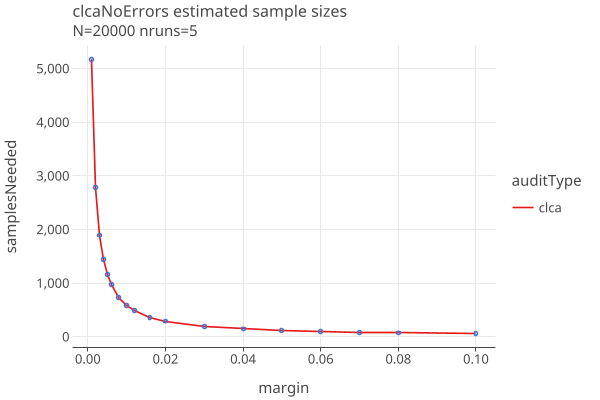
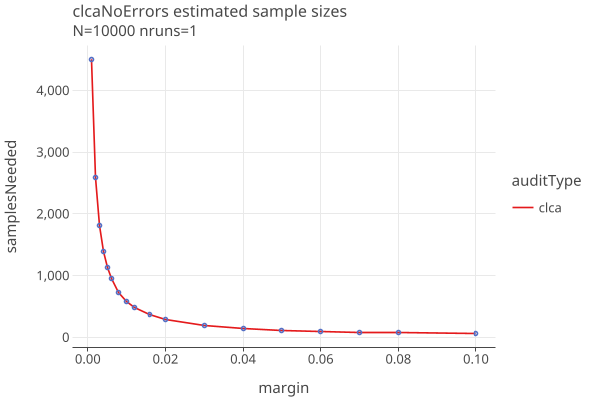
Add measured samples section to readme.

diff --git a/docs/plots/workflows/AuditsNoErrors/AuditsNoErrorsLog.html b/docs/plots/workflows/AuditsNoErrors/AuditsNoErrorsLog.html
@@ -5,12 +5,12 @@
        &lt;script type=&quot;text/javascript&quot; data-lets-plot-script=&quot;library&quot; src=&quot;https://cdn.jsdelivr.net/gh/JetBrains/lets-plot@v4.3.3/js-package/distr/lets-plot.min.js&quot;>&lt;/script>
    &lt;/head>
    &lt;body>
-          &lt;div id=&quot;2LenBm&quot;>&lt;/div>
+          &lt;div id=&quot;xl9jBT&quot;>&lt;/div>
    &lt;script type=&quot;text/javascript&quot; data-lets-plot-script=&quot;plot&quot;>
        var plotSpec={
 &quot;ggtitle&quot;:{
 &quot;text&quot;:&quot;AuditsNoErrors estimated sample sizes&quot;,
-&quot;subtitle&quot;:&quot;N=50000 nruns=100&quot;
+&quot;subtitle&quot;:&quot;N=10000 nruns=100&quot;
 },
 &quot;mapping&quot;:{
 },
@@ -42,10 +42,10 @@
 },
 &quot;stat&quot;:&quot;identity&quot;,
 &quot;data&quot;:{
-&quot;&amp;merged_groups&quot;:[&quot;clca&quot;,&quot;clca&quot;,&quot;clca&quot;,&quot;clca&quot;,&quot;clca&quot;,&quot;clca&quot;,&quot;clca&quot;,&quot;clca&quot;,&quot;clca&quot;,&quot;oneaudit 0.000&quot;,&quot;oneaudit 0.000&quot;,&quot;oneaudit 0.000&quot;,&quot;oneaudit 0.000&quot;,&quot;oneaudit 0.000&quot;,&quot;oneaudit 0.000&quot;,&quot;oneaudit 0.000&quot;,&quot;oneaudit 0.000&quot;,&quot;oneaudit 0.000&quot;,&quot;oneaudit 0.500&quot;,&quot;oneaudit 0.500&quot;,&quot;oneaudit 0.500&quot;,&quot;oneaudit 0.500&quot;,&quot;oneaudit 0.500&quot;,&quot;oneaudit 0.500&quot;,&quot;oneaudit 0.500&quot;,&quot;oneaudit 0.500&quot;,&quot;oneaudit 0.500&quot;,&quot;oneaudit 1.000&quot;,&quot;oneaudit 1.000&quot;,&quot;oneaudit 1.000&quot;,&quot;oneaudit 1.000&quot;,&quot;oneaudit 1.000&quot;,&quot;oneaudit 1.000&quot;,&quot;oneaudit 1.000&quot;,&quot;oneaudit 1.000&quot;,&quot;oneaudit 1.000&quot;,&quot;polling&quot;,&quot;polling&quot;,&quot;polling&quot;,&quot;polling&quot;,&quot;polling&quot;,&quot;polling&quot;,&quot;polling&quot;,&quot;polling&quot;,&quot;polling&quot;],
-&quot;margin&quot;:[0.02,0.03,0.04,0.05,0.06,0.07004,0.08,0.09,0.1,0.02,0.03,0.04,0.05,0.06,0.07,0.08,0.09,0.1,0.02,0.03,0.04,0.05,0.06,0.07,0.08,0.09,0.1,0.02,0.03,0.04,0.05,0.06,0.07,0.08,0.09,0.1,0.02,0.03,0.04,0.05002,0.06002,0.07004,0.08,0.09002,0.10002],
-&quot;log10(samplesNeeded)&quot;:[2.4725077920788094,2.294466226161593,2.1697038169945717,2.0718820073061255,1.9912260756924949,1.919078092376074,1.863322860120456,1.8129133566428555,1.7634279935629373,4.3153261890072825,4.097434671138254,3.882366273385968,3.737002497823517,3.6131237444851507,3.5012688238125733,3.384914068076313,3.2680605350907097,3.1593897097810526,4.306509519097144,4.05863894358761,3.879162424150548,3.67021986886627,3.530472487806604,3.413073335354132,3.276774199988959,3.196507791939696,3.1324838250005618,4.272584149110043,4.0217266644137775,3.813714391881145,3.6406801532776654,3.4940153747571436,3.367355921026019,3.255995726722402,3.156851901070011,3.0674428427763805,4.114867749137179,3.8258692744477507,3.6031237945886385,3.4514993686980673,3.28542902692649,3.17508542729306,3.0620853638402528,2.9733495643925187,2.83146663358453],
-&quot;auditType&quot;:[&quot;clca&quot;,&quot;clca&quot;,&quot;clca&quot;,&quot;clca&quot;,&quot;clca&quot;,&quot;clca&quot;,&quot;clca&quot;,&quot;clca&quot;,&quot;clca&quot;,&quot;oneaudit 0.000&quot;,&quot;oneaudit 0.000&quot;,&quot;oneaudit 0.000&quot;,&quot;oneaudit 0.000&quot;,&quot;oneaudit 0.000&quot;,&quot;oneaudit 0.000&quot;,&quot;oneaudit 0.000&quot;,&quot;oneaudit 0.000&quot;,&quot;oneaudit 0.000&quot;,&quot;oneaudit 0.500&quot;,&quot;oneaudit 0.500&quot;,&quot;oneaudit 0.500&quot;,&quot;oneaudit 0.500&quot;,&quot;oneaudit 0.500&quot;,&quot;oneaudit 0.500&quot;,&quot;oneaudit 0.500&quot;,&quot;oneaudit 0.500&quot;,&quot;oneaudit 0.500&quot;,&quot;oneaudit 1.000&quot;,&quot;oneaudit 1.000&quot;,&quot;oneaudit 1.000&quot;,&quot;oneaudit 1.000&quot;,&quot;oneaudit 1.000&quot;,&quot;oneaudit 1.000&quot;,&quot;oneaudit 1.000&quot;,&quot;oneaudit 1.000&quot;,&quot;oneaudit 1.000&quot;,&quot;polling&quot;,&quot;polling&quot;,&quot;polling&quot;,&quot;polling&quot;,&quot;polling&quot;,&quot;polling&quot;,&quot;polling&quot;,&quot;polling&quot;,&quot;polling&quot;]
+&quot;margin&quot;:[0.01,0.015,0.02,0.03,0.04,0.05,0.06,0.07,0.08,0.1,0.01,0.015,0.02,0.03,0.04,0.05,0.06,0.07,0.08,0.1,0.01,0.0152,0.02,0.03,0.04,0.05,0.06,0.07,0.08,0.1,0.01,0.015,0.02,0.03,0.04,0.05,0.06,0.07,0.08,0.1,0.01,0.015,0.02,0.03,0.04,0.05,0.06,0.07,0.08,0.1],
+&quot;&amp;merged_groups&quot;:[&quot;clca&quot;,&quot;clca&quot;,&quot;clca&quot;,&quot;clca&quot;,&quot;clca&quot;,&quot;clca&quot;,&quot;clca&quot;,&quot;clca&quot;,&quot;clca&quot;,&quot;clca&quot;,&quot;oneaudit 0.000&quot;,&quot;oneaudit 0.000&quot;,&quot;oneaudit 0.000&quot;,&quot;oneaudit 0.000&quot;,&quot;oneaudit 0.000&quot;,&quot;oneaudit 0.000&quot;,&quot;oneaudit 0.000&quot;,&quot;oneaudit 0.000&quot;,&quot;oneaudit 0.000&quot;,&quot;oneaudit 0.000&quot;,&quot;oneaudit 0.500&quot;,&quot;oneaudit 0.500&quot;,&quot;oneaudit 0.500&quot;,&quot;oneaudit 0.500&quot;,&quot;oneaudit 0.500&quot;,&quot;oneaudit 0.500&quot;,&quot;oneaudit 0.500&quot;,&quot;oneaudit 0.500&quot;,&quot;oneaudit 0.500&quot;,&quot;oneaudit 0.500&quot;,&quot;oneaudit 1.000&quot;,&quot;oneaudit 1.000&quot;,&quot;oneaudit 1.000&quot;,&quot;oneaudit 1.000&quot;,&quot;oneaudit 1.000&quot;,&quot;oneaudit 1.000&quot;,&quot;oneaudit 1.000&quot;,&quot;oneaudit 1.000&quot;,&quot;oneaudit 1.000&quot;,&quot;oneaudit 1.000&quot;,&quot;polling&quot;,&quot;polling&quot;,&quot;polling&quot;,&quot;polling&quot;,&quot;polling&quot;,&quot;polling&quot;,&quot;polling&quot;,&quot;polling&quot;,&quot;polling&quot;,&quot;polling&quot;],
+&quot;log10(samplesNeeded)&quot;:[2.7634279935629373,2.591064607026499,2.4668676203541096,2.292256071356476,2.167317334748176,2.0681858617461617,1.9867717342662448,1.919078092376074,1.863322860120456,1.7634279935629373,3.9660196436172765,3.928659524154752,3.877035415340168,3.7724588692973966,3.659421754313001,3.5525915691463377,3.4566650770468383,3.3514619569399438,3.286568734057264,3.1204785075416908,3.9624308997715207,3.915833385521619,3.8739114680814346,3.7476005567733175,3.6496122900968486,3.538838803753751,3.435678767605479,3.31414541703222,3.24166101564229,3.063085548974977,3.9651546459869254,3.9252605095194353,3.8748875108461123,3.756636108245848,3.631545227834309,3.510410948010177,3.397244581010386,3.292920299600006,3.197280558125619,3.0285712526925375,3.9051118001353617,3.8230253567344654,3.757121850816977,3.6401742414047047,3.510940252745901,3.326182191829347,3.2469464314097745,3.1036224421231684,2.9744287866201167,2.8104811913048864],
+&quot;auditType&quot;:[&quot;clca&quot;,&quot;clca&quot;,&quot;clca&quot;,&quot;clca&quot;,&quot;clca&quot;,&quot;clca&quot;,&quot;clca&quot;,&quot;clca&quot;,&quot;clca&quot;,&quot;clca&quot;,&quot;oneaudit 0.000&quot;,&quot;oneaudit 0.000&quot;,&quot;oneaudit 0.000&quot;,&quot;oneaudit 0.000&quot;,&quot;oneaudit 0.000&quot;,&quot;oneaudit 0.000&quot;,&quot;oneaudit 0.000&quot;,&quot;oneaudit 0.000&quot;,&quot;oneaudit 0.000&quot;,&quot;oneaudit 0.000&quot;,&quot;oneaudit 0.500&quot;,&quot;oneaudit 0.500&quot;,&quot;oneaudit 0.500&quot;,&quot;oneaudit 0.500&quot;,&quot;oneaudit 0.500&quot;,&quot;oneaudit 0.500&quot;,&quot;oneaudit 0.500&quot;,&quot;oneaudit 0.500&quot;,&quot;oneaudit 0.500&quot;,&quot;oneaudit 0.500&quot;,&quot;oneaudit 1.000&quot;,&quot;oneaudit 1.000&quot;,&quot;oneaudit 1.000&quot;,&quot;oneaudit 1.000&quot;,&quot;oneaudit 1.000&quot;,&quot;oneaudit 1.000&quot;,&quot;oneaudit 1.000&quot;,&quot;oneaudit 1.000&quot;,&quot;oneaudit 1.000&quot;,&quot;oneaudit 1.000&quot;,&quot;polling&quot;,&quot;polling&quot;,&quot;polling&quot;,&quot;polling&quot;,&quot;polling&quot;,&quot;polling&quot;,&quot;polling&quot;,&quot;polling&quot;,&quot;polling&quot;,&quot;polling&quot;]
 },
 &quot;sampling&quot;:&quot;none&quot;,
 &quot;position&quot;:&quot;identity&quot;,
@@ -58,10 +58,10 @@
 },
 &quot;stat&quot;:&quot;identity&quot;,
 &quot;data&quot;:{
-&quot;&amp;merged_groups&quot;:[&quot;clca&quot;,&quot;clca&quot;,&quot;clca&quot;,&quot;clca&quot;,&quot;clca&quot;,&quot;clca&quot;,&quot;clca&quot;,&quot;clca&quot;,&quot;clca&quot;,&quot;oneaudit 0.000&quot;,&quot;oneaudit 0.000&quot;,&quot;oneaudit 0.000&quot;,&quot;oneaudit 0.000&quot;,&quot;oneaudit 0.000&quot;,&quot;oneaudit 0.000&quot;,&quot;oneaudit 0.000&quot;,&quot;oneaudit 0.000&quot;,&quot;oneaudit 0.000&quot;,&quot;oneaudit 0.500&quot;,&quot;oneaudit 0.500&quot;,&quot;oneaudit 0.500&quot;,&quot;oneaudit 0.500&quot;,&quot;oneaudit 0.500&quot;,&quot;oneaudit 0.500&quot;,&quot;oneaudit 0.500&quot;,&quot;oneaudit 0.500&quot;,&quot;oneaudit 0.500&quot;,&quot;oneaudit 1.000&quot;,&quot;oneaudit 1.000&quot;,&quot;oneaudit 1.000&quot;,&quot;oneaudit 1.000&quot;,&quot;oneaudit 1.000&quot;,&quot;oneaudit 1.000&quot;,&quot;oneaudit 1.000&quot;,&quot;oneaudit 1.000&quot;,&quot;oneaudit 1.000&quot;,&quot;polling&quot;,&quot;polling&quot;,&quot;polling&quot;,&quot;polling&quot;,&quot;polling&quot;,&quot;polling&quot;,&quot;polling&quot;,&quot;polling&quot;,&quot;polling&quot;],
-&quot;margin&quot;:[0.02,0.03,0.04,0.05,0.06,0.07004,0.08,0.09,0.1,0.02,0.03,0.04,0.05,0.06,0.07,0.08,0.09,0.1,0.02,0.03,0.04,0.05,0.06,0.07,0.08,0.09,0.1,0.02,0.03,0.04,0.05,0.06,0.07,0.08,0.09,0.1,0.02,0.03,0.04,0.05002,0.06002,0.07004,0.08,0.09002,0.10002],
-&quot;log10(samplesNeeded)&quot;:[2.4725077920788094,2.294466226161593,2.1697038169945717,2.0718820073061255,1.9912260756924949,1.919078092376074,1.863322860120456,1.8129133566428555,1.7634279935629373,4.3153261890072825,4.097434671138254,3.882366273385968,3.737002497823517,3.6131237444851507,3.5012688238125733,3.384914068076313,3.2680605350907097,3.1593897097810526,4.306509519097144,4.05863894358761,3.879162424150548,3.67021986886627,3.530472487806604,3.413073335354132,3.276774199988959,3.196507791939696,3.1324838250005618,4.272584149110043,4.0217266644137775,3.813714391881145,3.6406801532776654,3.4940153747571436,3.367355921026019,3.255995726722402,3.156851901070011,3.0674428427763805,4.114867749137179,3.8258692744477507,3.6031237945886385,3.4514993686980673,3.28542902692649,3.17508542729306,3.0620853638402528,2.9733495643925187,2.83146663358453],
-&quot;auditType&quot;:[&quot;clca&quot;,&quot;clca&quot;,&quot;clca&quot;,&quot;clca&quot;,&quot;clca&quot;,&quot;clca&quot;,&quot;clca&quot;,&quot;clca&quot;,&quot;clca&quot;,&quot;oneaudit 0.000&quot;,&quot;oneaudit 0.000&quot;,&quot;oneaudit 0.000&quot;,&quot;oneaudit 0.000&quot;,&quot;oneaudit 0.000&quot;,&quot;oneaudit 0.000&quot;,&quot;oneaudit 0.000&quot;,&quot;oneaudit 0.000&quot;,&quot;oneaudit 0.000&quot;,&quot;oneaudit 0.500&quot;,&quot;oneaudit 0.500&quot;,&quot;oneaudit 0.500&quot;,&quot;oneaudit 0.500&quot;,&quot;oneaudit 0.500&quot;,&quot;oneaudit 0.500&quot;,&quot;oneaudit 0.500&quot;,&quot;oneaudit 0.500&quot;,&quot;oneaudit 0.500&quot;,&quot;oneaudit 1.000&quot;,&quot;oneaudit 1.000&quot;,&quot;oneaudit 1.000&quot;,&quot;oneaudit 1.000&quot;,&quot;oneaudit 1.000&quot;,&quot;oneaudit 1.000&quot;,&quot;oneaudit 1.000&quot;,&quot;oneaudit 1.000&quot;,&quot;oneaudit 1.000&quot;,&quot;polling&quot;,&quot;polling&quot;,&quot;polling&quot;,&quot;polling&quot;,&quot;polling&quot;,&quot;polling&quot;,&quot;polling&quot;,&quot;polling&quot;,&quot;polling&quot;]
+&quot;margin&quot;:[0.01,0.015,0.02,0.03,0.04,0.05,0.06,0.07,0.08,0.1,0.01,0.015,0.02,0.03,0.04,0.05,0.06,0.07,0.08,0.1,0.01,0.0152,0.02,0.03,0.04,0.05,0.06,0.07,0.08,0.1,0.01,0.015,0.02,0.03,0.04,0.05,0.06,0.07,0.08,0.1,0.01,0.015,0.02,0.03,0.04,0.05,0.06,0.07,0.08,0.1],
+&quot;&amp;merged_groups&quot;:[&quot;clca&quot;,&quot;clca&quot;,&quot;clca&quot;,&quot;clca&quot;,&quot;clca&quot;,&quot;clca&quot;,&quot;clca&quot;,&quot;clca&quot;,&quot;clca&quot;,&quot;clca&quot;,&quot;oneaudit 0.000&quot;,&quot;oneaudit 0.000&quot;,&quot;oneaudit 0.000&quot;,&quot;oneaudit 0.000&quot;,&quot;oneaudit 0.000&quot;,&quot;oneaudit 0.000&quot;,&quot;oneaudit 0.000&quot;,&quot;oneaudit 0.000&quot;,&quot;oneaudit 0.000&quot;,&quot;oneaudit 0.000&quot;,&quot;oneaudit 0.500&quot;,&quot;oneaudit 0.500&quot;,&quot;oneaudit 0.500&quot;,&quot;oneaudit 0.500&quot;,&quot;oneaudit 0.500&quot;,&quot;oneaudit 0.500&quot;,&quot;oneaudit 0.500&quot;,&quot;oneaudit 0.500&quot;,&quot;oneaudit 0.500&quot;,&quot;oneaudit 0.500&quot;,&quot;oneaudit 1.000&quot;,&quot;oneaudit 1.000&quot;,&quot;oneaudit 1.000&quot;,&quot;oneaudit 1.000&quot;,&quot;oneaudit 1.000&quot;,&quot;oneaudit 1.000&quot;,&quot;oneaudit 1.000&quot;,&quot;oneaudit 1.000&quot;,&quot;oneaudit 1.000&quot;,&quot;oneaudit 1.000&quot;,&quot;polling&quot;,&quot;polling&quot;,&quot;polling&quot;,&quot;polling&quot;,&quot;polling&quot;,&quot;polling&quot;,&quot;polling&quot;,&quot;polling&quot;,&quot;polling&quot;,&quot;polling&quot;],
+&quot;log10(samplesNeeded)&quot;:[2.7634279935629373,2.591064607026499,2.4668676203541096,2.292256071356476,2.167317334748176,2.0681858617461617,1.9867717342662448,1.919078092376074,1.863322860120456,1.7634279935629373,3.9660196436172765,3.928659524154752,3.877035415340168,3.7724588692973966,3.659421754313001,3.5525915691463377,3.4566650770468383,3.3514619569399438,3.286568734057264,3.1204785075416908,3.9624308997715207,3.915833385521619,3.8739114680814346,3.7476005567733175,3.6496122900968486,3.538838803753751,3.435678767605479,3.31414541703222,3.24166101564229,3.063085548974977,3.9651546459869254,3.9252605095194353,3.8748875108461123,3.756636108245848,3.631545227834309,3.510410948010177,3.397244581010386,3.292920299600006,3.197280558125619,3.0285712526925375,3.9051118001353617,3.8230253567344654,3.757121850816977,3.6401742414047047,3.510940252745901,3.326182191829347,3.2469464314097745,3.1036224421231684,2.9744287866201167,2.8104811913048864],
+&quot;auditType&quot;:[&quot;clca&quot;,&quot;clca&quot;,&quot;clca&quot;,&quot;clca&quot;,&quot;clca&quot;,&quot;clca&quot;,&quot;clca&quot;,&quot;clca&quot;,&quot;clca&quot;,&quot;clca&quot;,&quot;oneaudit 0.000&quot;,&quot;oneaudit 0.000&quot;,&quot;oneaudit 0.000&quot;,&quot;oneaudit 0.000&quot;,&quot;oneaudit 0.000&quot;,&quot;oneaudit 0.000&quot;,&quot;oneaudit 0.000&quot;,&quot;oneaudit 0.000&quot;,&quot;oneaudit 0.000&quot;,&quot;oneaudit 0.000&quot;,&quot;oneaudit 0.500&quot;,&quot;oneaudit 0.500&quot;,&quot;oneaudit 0.500&quot;,&quot;oneaudit 0.500&quot;,&quot;oneaudit 0.500&quot;,&quot;oneaudit 0.500&quot;,&quot;oneaudit 0.500&quot;,&quot;oneaudit 0.500&quot;,&quot;oneaudit 0.500&quot;,&quot;oneaudit 0.500&quot;,&quot;oneaudit 1.000&quot;,&quot;oneaudit 1.000&quot;,&quot;oneaudit 1.000&quot;,&quot;oneaudit 1.000&quot;,&quot;oneaudit 1.000&quot;,&quot;oneaudit 1.000&quot;,&quot;oneaudit 1.000&quot;,&quot;oneaudit 1.000&quot;,&quot;oneaudit 1.000&quot;,&quot;oneaudit 1.000&quot;,&quot;polling&quot;,&quot;polling&quot;,&quot;polling&quot;,&quot;polling&quot;,&quot;polling&quot;,&quot;polling&quot;,&quot;polling&quot;,&quot;polling&quot;,&quot;polling&quot;,&quot;polling&quot;]
 },
 &quot;size&quot;:1.0,
 &quot;shape&quot;:1.0,
@@ -75,7 +75,7 @@
 }
 }]
 };
-       var plotContainer = document.getElementById(&quot;2LenBm&quot;);
+       var plotContainer = document.getElementById(&quot;xl9jBT&quot;);
        LetsPlot.buildPlotFromProcessedSpecs(plotSpec, -1, -1, plotContainer);
    &lt;/script>
    &lt;/body>

diff --git a/docs/plots/workflows/AuditsNoErrors/AuditsNoErrorsLinear.html b/docs/plots/workflows/AuditsNoErrors/AuditsNoErrorsLinear.html
@@ -5,12 +5,12 @@
        &lt;script type=&quot;text/javascript&quot; data-lets-plot-script=&quot;library&quot; src=&quot;https://cdn.jsdelivr.net/gh/JetBrains/lets-plot@v4.3.3/js-package/distr/lets-plot.min.js&quot;>&lt;/script>
    &lt;/head>
    &lt;body>
-          &lt;div id=&quot;45DF2f&quot;>&lt;/div>
+          &lt;div id=&quot;Ww7ych&quot;>&lt;/div>
    &lt;script type=&quot;text/javascript&quot; data-lets-plot-script=&quot;plot&quot;>
        var plotSpec={
 &quot;ggtitle&quot;:{
 &quot;text&quot;:&quot;AuditsNoErrors estimated sample sizes&quot;,
-&quot;subtitle&quot;:&quot;N=50000 nruns=100&quot;
+&quot;subtitle&quot;:&quot;N=10000 nruns=100&quot;
 },
 &quot;mapping&quot;:{
 },
@@ -42,10 +42,10 @@
 },
 &quot;stat&quot;:&quot;identity&quot;,
 &quot;data&quot;:{
-&quot;&amp;merged_groups&quot;:[&quot;clca&quot;,&quot;clca&quot;,&quot;clca&quot;,&quot;clca&quot;,&quot;clca&quot;,&quot;clca&quot;,&quot;clca&quot;,&quot;clca&quot;,&quot;clca&quot;,&quot;oneaudit 0.000&quot;,&quot;oneaudit 0.000&quot;,&quot;oneaudit 0.000&quot;,&quot;oneaudit 0.000&quot;,&quot;oneaudit 0.000&quot;,&quot;oneaudit 0.000&quot;,&quot;oneaudit 0.000&quot;,&quot;oneaudit 0.000&quot;,&quot;oneaudit 0.000&quot;,&quot;oneaudit 0.500&quot;,&quot;oneaudit 0.500&quot;,&quot;oneaudit 0.500&quot;,&quot;oneaudit 0.500&quot;,&quot;oneaudit 0.500&quot;,&quot;oneaudit 0.500&quot;,&quot;oneaudit 0.500&quot;,&quot;oneaudit 0.500&quot;,&quot;oneaudit 0.500&quot;,&quot;oneaudit 1.000&quot;,&quot;oneaudit 1.000&quot;,&quot;oneaudit 1.000&quot;,&quot;oneaudit 1.000&quot;,&quot;oneaudit 1.000&quot;,&quot;oneaudit 1.000&quot;,&quot;oneaudit 1.000&quot;,&quot;oneaudit 1.000&quot;,&quot;oneaudit 1.000&quot;,&quot;polling&quot;,&quot;polling&quot;,&quot;polling&quot;,&quot;polling&quot;,&quot;polling&quot;,&quot;polling&quot;,&quot;polling&quot;,&quot;polling&quot;,&quot;polling&quot;],
-&quot;margin&quot;:[0.02,0.03,0.04,0.05,0.06,0.07004,0.08,0.09,0.1,0.02,0.03,0.04,0.05,0.06,0.07,0.08,0.09,0.1,0.02,0.03,0.04,0.05,0.06,0.07,0.08,0.09,0.1,0.02,0.03,0.04,0.05,0.06,0.07,0.08,0.09,0.1,0.02,0.03,0.04,0.05002,0.06002,0.07004,0.08,0.09002,0.10002],
-&quot;samplesNeeded&quot;:[296.83,197.0,147.81,118.0,98.0,83.0,73.0,65.0,58.0,20669.32,12515.11,7627.22,5457.61,4103.21,3171.53,2426.13,1853.79,1443.41,20253.94,11445.61,7571.16,4679.72,3392.13,2588.65,1891.36,1572.2,1356.7,18732.0,10513.0,6512.0,4372.0,3119.0,2330.0,1803.0,1435.0,1168.0,13027.7,6696.83,4009.81,2828.13,1929.43,1496.53,1153.68,940.48,678.37],
-&quot;auditType&quot;:[&quot;clca&quot;,&quot;clca&quot;,&quot;clca&quot;,&quot;clca&quot;,&quot;clca&quot;,&quot;clca&quot;,&quot;clca&quot;,&quot;clca&quot;,&quot;clca&quot;,&quot;oneaudit 0.000&quot;,&quot;oneaudit 0.000&quot;,&quot;oneaudit 0.000&quot;,&quot;oneaudit 0.000&quot;,&quot;oneaudit 0.000&quot;,&quot;oneaudit 0.000&quot;,&quot;oneaudit 0.000&quot;,&quot;oneaudit 0.000&quot;,&quot;oneaudit 0.000&quot;,&quot;oneaudit 0.500&quot;,&quot;oneaudit 0.500&quot;,&quot;oneaudit 0.500&quot;,&quot;oneaudit 0.500&quot;,&quot;oneaudit 0.500&quot;,&quot;oneaudit 0.500&quot;,&quot;oneaudit 0.500&quot;,&quot;oneaudit 0.500&quot;,&quot;oneaudit 0.500&quot;,&quot;oneaudit 1.000&quot;,&quot;oneaudit 1.000&quot;,&quot;oneaudit 1.000&quot;,&quot;oneaudit 1.000&quot;,&quot;oneaudit 1.000&quot;,&quot;oneaudit 1.000&quot;,&quot;oneaudit 1.000&quot;,&quot;oneaudit 1.000&quot;,&quot;oneaudit 1.000&quot;,&quot;polling&quot;,&quot;polling&quot;,&quot;polling&quot;,&quot;polling&quot;,&quot;polling&quot;,&quot;polling&quot;,&quot;polling&quot;,&quot;polling&quot;,&quot;polling&quot;]
+&quot;&amp;merged_groups&quot;:[&quot;clca&quot;,&quot;clca&quot;,&quot;clca&quot;,&quot;clca&quot;,&quot;clca&quot;,&quot;clca&quot;,&quot;clca&quot;,&quot;clca&quot;,&quot;clca&quot;,&quot;clca&quot;,&quot;oneaudit 0.000&quot;,&quot;oneaudit 0.000&quot;,&quot;oneaudit 0.000&quot;,&quot;oneaudit 0.000&quot;,&quot;oneaudit 0.000&quot;,&quot;oneaudit 0.000&quot;,&quot;oneaudit 0.000&quot;,&quot;oneaudit 0.000&quot;,&quot;oneaudit 0.000&quot;,&quot;oneaudit 0.000&quot;,&quot;oneaudit 0.500&quot;,&quot;oneaudit 0.500&quot;,&quot;oneaudit 0.500&quot;,&quot;oneaudit 0.500&quot;,&quot;oneaudit 0.500&quot;,&quot;oneaudit 0.500&quot;,&quot;oneaudit 0.500&quot;,&quot;oneaudit 0.500&quot;,&quot;oneaudit 0.500&quot;,&quot;oneaudit 0.500&quot;,&quot;oneaudit 1.000&quot;,&quot;oneaudit 1.000&quot;,&quot;oneaudit 1.000&quot;,&quot;oneaudit 1.000&quot;,&quot;oneaudit 1.000&quot;,&quot;oneaudit 1.000&quot;,&quot;oneaudit 1.000&quot;,&quot;oneaudit 1.000&quot;,&quot;oneaudit 1.000&quot;,&quot;oneaudit 1.000&quot;,&quot;polling&quot;,&quot;polling&quot;,&quot;polling&quot;,&quot;polling&quot;,&quot;polling&quot;,&quot;polling&quot;,&quot;polling&quot;,&quot;polling&quot;,&quot;polling&quot;,&quot;polling&quot;],
+&quot;margin&quot;:[0.01,0.015,0.02,0.03,0.04,0.05,0.06,0.07,0.08,0.1,0.01,0.015,0.02,0.03,0.04,0.05,0.06,0.07,0.08,0.1,0.01,0.0152,0.02,0.03,0.04,0.05,0.06,0.07,0.08,0.1,0.01,0.015,0.02,0.03,0.04,0.05,0.06,0.07,0.08,0.1,0.01,0.015,0.02,0.03,0.04,0.05,0.06,0.07,0.08,0.1],
+&quot;samplesNeeded&quot;:[580.0,390.0,293.0,196.0,147.0,117.0,97.0,83.0,73.0,58.0,9247.4,8485.15,7534.17,5921.87,4564.8,3569.37,2861.97,2246.27,1934.5,1319.71,9171.3,8238.22,7480.17,5592.43,4462.85,3458.11,2726.96,2061.32,1744.46,1156.34,9229.0,8419.0,7497.0,5710.0,4281.0,3239.0,2496.0,1963.0,1575.0,1068.0,8037.33,6653.12,5716.39,4366.91,3242.95,2119.25,1765.82,1269.47,942.82,646.37],
+&quot;auditType&quot;:[&quot;clca&quot;,&quot;clca&quot;,&quot;clca&quot;,&quot;clca&quot;,&quot;clca&quot;,&quot;clca&quot;,&quot;clca&quot;,&quot;clca&quot;,&quot;clca&quot;,&quot;clca&quot;,&quot;oneaudit 0.000&quot;,&quot;oneaudit 0.000&quot;,&quot;oneaudit 0.000&quot;,&quot;oneaudit 0.000&quot;,&quot;oneaudit 0.000&quot;,&quot;oneaudit 0.000&quot;,&quot;oneaudit 0.000&quot;,&quot;oneaudit 0.000&quot;,&quot;oneaudit 0.000&quot;,&quot;oneaudit 0.000&quot;,&quot;oneaudit 0.500&quot;,&quot;oneaudit 0.500&quot;,&quot;oneaudit 0.500&quot;,&quot;oneaudit 0.500&quot;,&quot;oneaudit 0.500&quot;,&quot;oneaudit 0.500&quot;,&quot;oneaudit 0.500&quot;,&quot;oneaudit 0.500&quot;,&quot;oneaudit 0.500&quot;,&quot;oneaudit 0.500&quot;,&quot;oneaudit 1.000&quot;,&quot;oneaudit 1.000&quot;,&quot;oneaudit 1.000&quot;,&quot;oneaudit 1.000&quot;,&quot;oneaudit 1.000&quot;,&quot;oneaudit 1.000&quot;,&quot;oneaudit 1.000&quot;,&quot;oneaudit 1.000&quot;,&quot;oneaudit 1.000&quot;,&quot;oneaudit 1.000&quot;,&quot;polling&quot;,&quot;polling&quot;,&quot;polling&quot;,&quot;polling&quot;,&quot;polling&quot;,&quot;polling&quot;,&quot;polling&quot;,&quot;polling&quot;,&quot;polling&quot;,&quot;polling&quot;]
 },
 &quot;sampling&quot;:&quot;none&quot;,
 &quot;position&quot;:&quot;identity&quot;,
@@ -58,10 +58,10 @@
 },
 &quot;stat&quot;:&quot;identity&quot;,
 &quot;data&quot;:{
-&quot;margin&quot;:[0.02,0.03,0.04,0.05,0.06,0.07004,0.08,0.09,0.1,0.02,0.03,0.04,0.05,0.06,0.07,0.08,0.09,0.1,0.02,0.03,0.04,0.05,0.06,0.07,0.08,0.09,0.1,0.02,0.03,0.04,0.05,0.06,0.07,0.08,0.09,0.1,0.02,0.03,0.04,0.05002,0.06002,0.07004,0.08,0.09002,0.10002],
-&quot;&amp;merged_groups&quot;:[&quot;clca&quot;,&quot;clca&quot;,&quot;clca&quot;,&quot;clca&quot;,&quot;clca&quot;,&quot;clca&quot;,&quot;clca&quot;,&quot;clca&quot;,&quot;clca&quot;,&quot;oneaudit 0.000&quot;,&quot;oneaudit 0.000&quot;,&quot;oneaudit 0.000&quot;,&quot;oneaudit 0.000&quot;,&quot;oneaudit 0.000&quot;,&quot;oneaudit 0.000&quot;,&quot;oneaudit 0.000&quot;,&quot;oneaudit 0.000&quot;,&quot;oneaudit 0.000&quot;,&quot;oneaudit 0.500&quot;,&quot;oneaudit 0.500&quot;,&quot;oneaudit 0.500&quot;,&quot;oneaudit 0.500&quot;,&quot;oneaudit 0.500&quot;,&quot;oneaudit 0.500&quot;,&quot;oneaudit 0.500&quot;,&quot;oneaudit 0.500&quot;,&quot;oneaudit 0.500&quot;,&quot;oneaudit 1.000&quot;,&quot;oneaudit 1.000&quot;,&quot;oneaudit 1.000&quot;,&quot;oneaudit 1.000&quot;,&quot;oneaudit 1.000&quot;,&quot;oneaudit 1.000&quot;,&quot;oneaudit 1.000&quot;,&quot;oneaudit 1.000&quot;,&quot;oneaudit 1.000&quot;,&quot;polling&quot;,&quot;polling&quot;,&quot;polling&quot;,&quot;polling&quot;,&quot;polling&quot;,&quot;polling&quot;,&quot;polling&quot;,&quot;polling&quot;,&quot;polling&quot;],
-&quot;samplesNeeded&quot;:[296.83,197.0,147.81,118.0,98.0,83.0,73.0,65.0,58.0,20669.32,12515.11,7627.22,5457.61,4103.21,3171.53,2426.13,1853.79,1443.41,20253.94,11445.61,7571.16,4679.72,3392.13,2588.65,1891.36,1572.2,1356.7,18732.0,10513.0,6512.0,4372.0,3119.0,2330.0,1803.0,1435.0,1168.0,13027.7,6696.83,4009.81,2828.13,1929.43,1496.53,1153.68,940.48,678.37],
-&quot;auditType&quot;:[&quot;clca&quot;,&quot;clca&quot;,&quot;clca&quot;,&quot;clca&quot;,&quot;clca&quot;,&quot;clca&quot;,&quot;clca&quot;,&quot;clca&quot;,&quot;clca&quot;,&quot;oneaudit 0.000&quot;,&quot;oneaudit 0.000&quot;,&quot;oneaudit 0.000&quot;,&quot;oneaudit 0.000&quot;,&quot;oneaudit 0.000&quot;,&quot;oneaudit 0.000&quot;,&quot;oneaudit 0.000&quot;,&quot;oneaudit 0.000&quot;,&quot;oneaudit 0.000&quot;,&quot;oneaudit 0.500&quot;,&quot;oneaudit 0.500&quot;,&quot;oneaudit 0.500&quot;,&quot;oneaudit 0.500&quot;,&quot;oneaudit 0.500&quot;,&quot;oneaudit 0.500&quot;,&quot;oneaudit 0.500&quot;,&quot;oneaudit 0.500&quot;,&quot;oneaudit 0.500&quot;,&quot;oneaudit 1.000&quot;,&quot;oneaudit 1.000&quot;,&quot;oneaudit 1.000&quot;,&quot;oneaudit 1.000&quot;,&quot;oneaudit 1.000&quot;,&quot;oneaudit 1.000&quot;,&quot;oneaudit 1.000&quot;,&quot;oneaudit 1.000&quot;,&quot;oneaudit 1.000&quot;,&quot;polling&quot;,&quot;polling&quot;,&quot;polling&quot;,&quot;polling&quot;,&quot;polling&quot;,&quot;polling&quot;,&quot;polling&quot;,&quot;polling&quot;,&quot;polling&quot;]
+&quot;&amp;merged_groups&quot;:[&quot;clca&quot;,&quot;clca&quot;,&quot;clca&quot;,&quot;clca&quot;,&quot;clca&quot;,&quot;clca&quot;,&quot;clca&quot;,&quot;clca&quot;,&quot;clca&quot;,&quot;clca&quot;,&quot;oneaudit 0.000&quot;,&quot;oneaudit 0.000&quot;,&quot;oneaudit 0.000&quot;,&quot;oneaudit 0.000&quot;,&quot;oneaudit 0.000&quot;,&quot;oneaudit 0.000&quot;,&quot;oneaudit 0.000&quot;,&quot;oneaudit 0.000&quot;,&quot;oneaudit 0.000&quot;,&quot;oneaudit 0.000&quot;,&quot;oneaudit 0.500&quot;,&quot;oneaudit 0.500&quot;,&quot;oneaudit 0.500&quot;,&quot;oneaudit 0.500&quot;,&quot;oneaudit 0.500&quot;,&quot;oneaudit 0.500&quot;,&quot;oneaudit 0.500&quot;,&quot;oneaudit 0.500&quot;,&quot;oneaudit 0.500&quot;,&quot;oneaudit 0.500&quot;,&quot;oneaudit 1.000&quot;,&quot;oneaudit 1.000&quot;,&quot;oneaudit 1.000&quot;,&quot;oneaudit 1.000&quot;,&quot;oneaudit 1.000&quot;,&quot;oneaudit 1.000&quot;,&quot;oneaudit 1.000&quot;,&quot;oneaudit 1.000&quot;,&quot;oneaudit 1.000&quot;,&quot;oneaudit 1.000&quot;,&quot;polling&quot;,&quot;polling&quot;,&quot;polling&quot;,&quot;polling&quot;,&quot;polling&quot;,&quot;polling&quot;,&quot;polling&quot;,&quot;polling&quot;,&quot;polling&quot;,&quot;polling&quot;],
+&quot;margin&quot;:[0.01,0.015,0.02,0.03,0.04,0.05,0.06,0.07,0.08,0.1,0.01,0.015,0.02,0.03,0.04,0.05,0.06,0.07,0.08,0.1,0.01,0.0152,0.02,0.03,0.04,0.05,0.06,0.07,0.08,0.1,0.01,0.015,0.02,0.03,0.04,0.05,0.06,0.07,0.08,0.1,0.01,0.015,0.02,0.03,0.04,0.05,0.06,0.07,0.08,0.1],
+&quot;samplesNeeded&quot;:[580.0,390.0,293.0,196.0,147.0,117.0,97.0,83.0,73.0,58.0,9247.4,8485.15,7534.17,5921.87,4564.8,3569.37,2861.97,2246.27,1934.5,1319.71,9171.3,8238.22,7480.17,5592.43,4462.85,3458.11,2726.96,2061.32,1744.46,1156.34,9229.0,8419.0,7497.0,5710.0,4281.0,3239.0,2496.0,1963.0,1575.0,1068.0,8037.33,6653.12,5716.39,4366.91,3242.95,2119.25,1765.82,1269.47,942.82,646.37],
+&quot;auditType&quot;:[&quot;clca&quot;,&quot;clca&quot;,&quot;clca&quot;,&quot;clca&quot;,&quot;clca&quot;,&quot;clca&quot;,&quot;clca&quot;,&quot;clca&quot;,&quot;clca&quot;,&quot;clca&quot;,&quot;oneaudit 0.000&quot;,&quot;oneaudit 0.000&quot;,&quot;oneaudit 0.000&quot;,&quot;oneaudit 0.000&quot;,&quot;oneaudit 0.000&quot;,&quot;oneaudit 0.000&quot;,&quot;oneaudit 0.000&quot;,&quot;oneaudit 0.000&quot;,&quot;oneaudit 0.000&quot;,&quot;oneaudit 0.000&quot;,&quot;oneaudit 0.500&quot;,&quot;oneaudit 0.500&quot;,&quot;oneaudit 0.500&quot;,&quot;oneaudit 0.500&quot;,&quot;oneaudit 0.500&quot;,&quot;oneaudit 0.500&quot;,&quot;oneaudit 0.500&quot;,&quot;oneaudit 0.500&quot;,&quot;oneaudit 0.500&quot;,&quot;oneaudit 0.500&quot;,&quot;oneaudit 1.000&quot;,&quot;oneaudit 1.000&quot;,&quot;oneaudit 1.000&quot;,&quot;oneaudit 1.000&quot;,&quot;oneaudit 1.000&quot;,&quot;oneaudit 1.000&quot;,&quot;oneaudit 1.000&quot;,&quot;oneaudit 1.000&quot;,&quot;oneaudit 1.000&quot;,&quot;oneaudit 1.000&quot;,&quot;polling&quot;,&quot;polling&quot;,&quot;polling&quot;,&quot;polling&quot;,&quot;polling&quot;,&quot;polling&quot;,&quot;polling&quot;,&quot;polling&quot;,&quot;polling&quot;,&quot;polling&quot;]
 },
 &quot;size&quot;:1.0,
 &quot;shape&quot;:1.0,
@@ -75,7 +75,7 @@
 }
 }]
 };
-       var plotContainer = document.getElementById(&quot;45DF2f&quot;);
+       var plotContainer = document.getElementById(&quot;Ww7ych&quot;);
        LetsPlot.buildPlotFromProcessedSpecs(plotSpec, -1, -1, plotContainer);
    &lt;/script>
    &lt;/body>

diff --git a/docs/plots/workflows/clcaNoErrors/clcaNoErrorsLinear.html b/docs/plots/workflows/clcaNoErrors/clcaNoErrorsLinear.html
@@ -5,12 +5,12 @@
        &lt;script type=&quot;text/javascript&quot; data-lets-plot-script=&quot;library&quot; src=&quot;https://cdn.jsdelivr.net/gh/JetBrains/lets-plot@v4.3.3/js-package/distr/lets-plot.min.js&quot;>&lt;/script>
    &lt;/head>
    &lt;body>
-          &lt;div id=&quot;ZQvTiS&quot;>&lt;/div>
+          &lt;div id=&quot;mKPtJM&quot;>&lt;/div>
    &lt;script type=&quot;text/javascript&quot; data-lets-plot-script=&quot;plot&quot;>
        var plotSpec={
 &quot;ggtitle&quot;:{
 &quot;text&quot;:&quot;clcaNoErrors estimated sample sizes&quot;,
-&quot;subtitle&quot;:&quot;N=20000 nruns=5&quot;
+&quot;subtitle&quot;:&quot;N=10000 nruns=1&quot;
 },
 &quot;mapping&quot;:{
 },
@@ -42,9 +42,9 @@
 },
 &quot;stat&quot;:&quot;identity&quot;,
 &quot;data&quot;:{
-&quot;margin&quot;:[0.001,0.002,0.003,0.004,0.005,0.006,0.008,0.01,0.012,0.016,0.02,0.03,0.04,0.05,0.06,0.07,0.08,0.1],
 &quot;&amp;merged_groups&quot;:[&quot;clca&quot;,&quot;clca&quot;,&quot;clca&quot;,&quot;clca&quot;,&quot;clca&quot;,&quot;clca&quot;,&quot;clca&quot;,&quot;clca&quot;,&quot;clca&quot;,&quot;clca&quot;,&quot;clca&quot;,&quot;clca&quot;,&quot;clca&quot;,&quot;clca&quot;,&quot;clca&quot;,&quot;clca&quot;,&quot;clca&quot;,&quot;clca&quot;],
-&quot;samplesNeeded&quot;:[5176.0,2781.0,1899.0,1441.0,1161.0,972.0,733.0,588.0,491.0,369.0,295.0,197.0,147.0,117.0,98.0,83.0,73.0,58.0],
+&quot;margin&quot;:[0.001,0.002,0.003,0.004,0.005,0.006,0.008,0.01,0.012,0.016,0.02,0.03,0.04,0.05,0.06,0.07,0.08,0.1],
+&quot;samplesNeeded&quot;:[4506.0,2587.0,1809.0,1389.0,1128.0,949.0,720.0,580.0,485.0,366.0,293.0,196.0,147.0,117.0,97.0,83.0,73.0,58.0],
 &quot;auditType&quot;:[&quot;clca&quot;,&quot;clca&quot;,&quot;clca&quot;,&quot;clca&quot;,&quot;clca&quot;,&quot;clca&quot;,&quot;clca&quot;,&quot;clca&quot;,&quot;clca&quot;,&quot;clca&quot;,&quot;clca&quot;,&quot;clca&quot;,&quot;clca&quot;,&quot;clca&quot;,&quot;clca&quot;,&quot;clca&quot;,&quot;clca&quot;,&quot;clca&quot;]
 },
 &quot;sampling&quot;:&quot;none&quot;,
@@ -58,9 +58,9 @@
 },
 &quot;stat&quot;:&quot;identity&quot;,
 &quot;data&quot;:{
-&quot;margin&quot;:[0.001,0.002,0.003,0.004,0.005,0.006,0.008,0.01,0.012,0.016,0.02,0.03,0.04,0.05,0.06,0.07,0.08,0.1],
 &quot;&amp;merged_groups&quot;:[&quot;clca&quot;,&quot;clca&quot;,&quot;clca&quot;,&quot;clca&quot;,&quot;clca&quot;,&quot;clca&quot;,&quot;clca&quot;,&quot;clca&quot;,&quot;clca&quot;,&quot;clca&quot;,&quot;clca&quot;,&quot;clca&quot;,&quot;clca&quot;,&quot;clca&quot;,&quot;clca&quot;,&quot;clca&quot;,&quot;clca&quot;,&quot;clca&quot;],
-&quot;samplesNeeded&quot;:[5176.0,2781.0,1899.0,1441.0,1161.0,972.0,733.0,588.0,491.0,369.0,295.0,197.0,147.0,117.0,98.0,83.0,73.0,58.0],
+&quot;margin&quot;:[0.001,0.002,0.003,0.004,0.005,0.006,0.008,0.01,0.012,0.016,0.02,0.03,0.04,0.05,0.06,0.07,0.08,0.1],
+&quot;samplesNeeded&quot;:[4506.0,2587.0,1809.0,1389.0,1128.0,949.0,720.0,580.0,485.0,366.0,293.0,196.0,147.0,117.0,97.0,83.0,73.0,58.0],
 &quot;auditType&quot;:[&quot;clca&quot;,&quot;clca&quot;,&quot;clca&quot;,&quot;clca&quot;,&quot;clca&quot;,&quot;clca&quot;,&quot;clca&quot;,&quot;clca&quot;,&quot;clca&quot;,&quot;clca&quot;,&quot;clca&quot;,&quot;clca&quot;,&quot;clca&quot;,&quot;clca&quot;,&quot;clca&quot;,&quot;clca&quot;,&quot;clca&quot;,&quot;clca&quot;]
 },
 &quot;size&quot;:1.0,
@@ -75,7 +75,7 @@
 }
 }]
 };
-       var plotContainer = document.getElementById(&quot;ZQvTiS&quot;);
+       var plotContainer = document.getElementById(&quot;mKPtJM&quot;);
        LetsPlot.buildPlotFromProcessedSpecs(plotSpec, -1, -1, plotContainer);
    &lt;/script>
    &lt;/body>

diff --git a/plots/src/test/kotlin/org/cryptobiotic/rlauxe/workflow/CompareAuditsNoErrors.kt b/plots/src/test/kotlin/org/cryptobiotic/rlauxe/workflow/CompareAuditsNoErrors.kt
@@ -10,15 +10,14 @@ import org.cryptobiotic.rlauxe.util.dfn
 import kotlin.test.Test
 
 class CompareAuditsNoErrors {
-    val nruns = 5  // number of times to run workflow
-    val N = 20000
-    val margins =
-        listOf(.001, .002, .003, .004, .005, .006, .008, .01, .012, .016, .02, .03, .04, .05, .06, .07, .08, .10)
+    val nruns = 100  // number of times to run workflow
+    val N = 10000
 
     @Test
     fun genAuditsNoErrorsPlots() {
         val name = "AuditsNoErrors"
         val dirName = "/home/stormy/temp/workflow/$name"
+        val margins = listOf(.01, .015, .02, .03, .04, .05, .06, .07, .08, .10)
 
         val cvrPercents = listOf(0.0, 0.5, 1.0)
         val stopwatch = Stopwatch()
@@ -61,6 +60,9 @@ class CompareAuditsNoErrors {
     fun clcaNoErrorsPlots() {
         val name = "clcaNoErrors"
         val dirName = "/home/stormy/temp/workflow/$name"
+        val margins =
+            listOf(.001, .002, .003, .004, .005, .006, .008, .01, .012, .016, .02, .03, .04, .05, .06, .07, .08, .10)
+
         val stopwatch = Stopwatch()
 
         val tasks = mutableListOf<ConcurrentTaskG<List<WorkflowResult>>>()

diff --git a/plots/src/test/kotlin/org/cryptobiotic/rlauxe/sampling/GenSampleSizeEstimates.kt b/plots/src/test/kotlin/org/cryptobiotic/rlauxe/sampling/GenSampleSizeEstimates.kt
@@ -11,6 +11,7 @@ import org.cryptobiotic.rlauxe.concur.ConcurrentTaskRunnerG
 class GenSampleSizeEstimates : AbstractProjectConfig() {
     override val parallelism = 3
 
+    // TODO candidate for removal
     @Test
     fun plotComparisonVsPoll() {
         val auditConfig = AuditConfig(

diff --git a/README.md b/README.md
@@ -23,7 +23,7 @@ Table of Contents
   * [Polling audits](#polling-audits)
   * [Stratified audits using OneAudit](#stratified-audits-using-oneaudit)
   * [Comparison of AuditTypes' sample sizes](#comparison-of-audittypes-sample-sizes)
-  * [Estimated Sample sizes with no errors](#estimated-sample-sizes-with-no-errors)
+  * [Estimated sample sizes with no errors](#estimated-sample-sizes-with-no-errors)
 * [Sampling](#sampling)
   * [Estimating Sample sizes](#estimating-sample-sizes)
   * [Choosing which ballots/cards to sample](#choosing-which-ballotscards-to-sample)
@@ -209,7 +209,7 @@ See [CLCA Error Rates](docs/ClcaErrorRates.md) for estimating error rates and pl
 See [CLCA Betting function](docs/BettingRiskFunction.md) for more details on BettingMart.
 
 
-## Polling audits
+## Polling Audits
 
 When CVRs are not available, a polling audit can be done instead. A polling audit  
 creates an MVR for each ballot card selected for sampling, just as with a CLCA, except without the CVR.
@@ -233,7 +233,7 @@ A few representative plots showing the effect of d are at [meanDiff plots](https
 See [ALPHA testing statistic](docs/AlphaMart.md) for more details and plots.
 
 
-## Stratified audits using OneAudit
+## Stratified Audits using OneAudit
 
 OneAudit is a comparison audit that uses AlphaMart instead of BettingMart. 
 
@@ -242,20 +242,39 @@ This is "overstatement-net-equivalent" (aka ONE).
 
 See [OneAudit Notes](docs/OneAudit.md) for more details and plots.
 
+# Measured Sample sizes
 
-## Comparison of AuditTypes' sample sizes
+The following plots are simulated complete workflows, averaging the results from the given number of runs.
 
-These are plots of sample sizes for the three audit types: Polling, Comparison (clca) and OneAudit (with 0%, 50% and 100% of ballots having CVRs),
-when there are no errors between the MVRs and the CVRs.
+In general samples sizes are independent of N, which is helpful to keep in mind
+
+Actually there is a slight dependence on N for "without replacement" audits when the sample size approaches N, 
+but that case approaches a full hand audit, and isnt very interesting.
+
+When Card Style Data (CSD) is missing, the sample sizes have to be scaled by N / Nc, where M is the number of physical ballots
+that a contest might be on, and Nc is the number of ballots it is actually on. 
+See [Choosing which ballots/cards to sample](#choosing-which-ballotscards-to-sample), below.
+
+## Sample sizes with no errors
+
+The audit needing the least samples is CLCA when there are no errors in the CVRs. In that case, the sample sizes depend only on the margin:
+
+<a href="https://johnlcaron.github.io/rlauxe/docs/plots/workflows/clcaNoErrors/clcaNoErrorsLinear.html" rel="clcaNoErrorsLinear">![clcaNoErrorsLinear](./docs/plots/workflows/clcaNoErrors/clcaNoErrorsLinear.png)</a>
+
+So, for example we need 1,128 samples to audit a contest with a 0.5% margin.
+(Click on the plot to get an interactive html plot).
+For a 10,000 vote election, thats 11.28% of the total ballots. For a 100,000 vote election, its only 1.13%.
+
+Here are sample sizes for the three audit types: Polling, Comparison (clca) and OneAudit (with 0%, 50% and 100% of ballots having CVRs),
+when there are no errors in the CVRs:
 
 <a href="https://johnlcaron.github.io/rlauxe/docs/plots/workflows/AuditsNoErrors/AuditsNoErrorsLinear.html" rel="AuditsNoErrors Linear">![AuditsNoErrorsLinear](./docs/plots/workflows/AuditsNoErrors/AuditsNoErrorsLinear.png)</a>
 <a href="https://johnlcaron.github.io/rlauxe/docs/plots/workflows/AuditsNoErrors/AuditsNoErrorsLog.html" rel="AuditsNoErrors Log">![AuditsNoErrorsLog](./docs/plots/workflows/AuditsNoErrors/AuditsNoErrorsLog.png)</a>
 
-* OneAudit results are about twice as high as polling. More tuning is possible but wont change the O(margin) shape.
-* When there are no errors, the CLCA assort values depend only on the margin, so we get a smooth curve.
-* Need to investigate how the presence of errors between the MVRs and the CVRs affects the results.
-* OneAudit / Polling probably arent useable when margin < .02, whereas CLCA can be used for much smaller margins.
-* Its surprising that theres not more difference between the OneAudit results with different percents having CVRs.
+"In a card-level comparison audit, the estimated sample size scales with
+the reciprocal of the diluted margin." (STYLISH p.4) Polling scales as square of 1/margin.
+
+## Sample sizes with errors
 
 Plots vs fuzzPct (percent ballots having randomly changed candidate, see [sampling with fuzz](#estimating-sample-sizes-and-error-rates-with-fuzz),
 with margin fixed at 4%:
@@ -263,37 +282,22 @@ with margin fixed at 4%:
 <a href="https://johnlcaron.github.io/rlauxe/docs/plots/workflows/AuditsWithErrors/AuditsWithErrorsLinear.html" rel="AuditsWithErrors Linear">![AuditsWithErrorsLinear](./docs/plots/workflows/AuditsWithErrors/AuditsWithErrorsLinear.png)</a>
 <a href="https://johnlcaron.github.io/rlauxe/docs/plots/workflows/AuditsWithErrors/AuditsWithErrorsLog.html" rel="AuditsWithErrors Log">![AuditsWithErrorsLog](./docs/plots/workflows/AuditsWithErrors/AuditsWithErrorsLog.png)</a>
 
-* clca is much more sensitive to errors than polling or oneaudit.
+* CLCA is much more sensitive to errors than polling or oneaudit.
+* When there are no errors, the CLCA assort values depend only on the margin, so we get a smooth curve.
+* OneAudit results are about twice as high as polling. More tuning is possible but wont change the O(margin) shape.
+* OneAudit / Polling probably arent useable when margin < .02, whereas CLCA can be used for much smaller margins.
+* Its surprising that theres not more difference between the OneAudit results with different percents having CVRs.
 
 Varying undervotes percent:
 
 <a href="https://johnlcaron.github.io/rlauxe/docs/plots/workflows/AuditsNoErrors/AuditsWithUndervotesLinear.html" rel="AuditsWithUndervotes Linear">![AuditsWithUndervotesLinear](./docs/plots/workflows/AuditsWithUndervotes/AuditsWithUndervotesLinear.png)</a>
-<a href="https://johnlcaron.github.io/rlauxe/docs/plots/workflows/AuditsNoErrors/AuditsWithUndervotesLog.html" rel="AuditsWithUndervotes Log">![AuditsWithUndervotesLog](./docs/plots/workflows/AuditsWithUndervotes/AuditsWithUndervotesLog.png)</a>
 
-Varying phantom percent::
+Varying phantom percent, up to and over the margin of 5%:
 
 <a href="https://johnlcaron.github.io/rlauxe/docs/plots/workflows/AuditsWithPhantoms/AuditsWithPhantomsLinear.html" rel="AuditsNoErrors Linear">![AuditsWithPhantomsLinear](./docs/plots/workflows/AuditsWithPhantoms/AuditsWithPhantomsLinear.png)</a>
-<a href="https://johnlcaron.github.io/rlauxe/docs/plots/workflows/AuditsWithPhantoms/AuditsWithPhantomsLog.html" rel="AuditsNoErrors Log">![AuditsWithPhantomsLog](./docs/plots/workflows/AuditsWithPhantoms/AuditsWithPhantomsLog.png)</a>
 
-## Estimated Sample sizes with no errors
+* Increased phantoms have a strong effect on sample size.
 
-The best possible audit is CLCA when there are no errors in the CVRs. In that case, the sample sizes depend only on the margin:
-
-<a href="https://johnlcaron.github.io/rlauxe/docs/plots/workflows/clcaNoErrors/clcaNoErrorsLinear.html" rel="clcaNoErrorsLinear">![clcaNoErrorsLinear](./docs/plots/workflows/clcaNoErrors/clcaNoErrorsLinear.png)</a>
-
-Remarkably, this value is independent of N. So, for example we need 1,128 samples to audit a contest with a 0.5% margin.
-For a 10,000 vote election, thats 11.28% For a 100,000 vote election, its only 1.13%.
-
-This plot (_PlotSampleSizeEstimates.plotComparisonVsPoll()_) shows the difference between a polling audit and a comparison
-audit at different margins, where the MVRS match the CVRS ("no errors").
-
-<a href="https://johnlcaron.github.io/rlauxe/docs/plots/samples/ComparisonVsPoll.html" rel="Polling Vs Comparison Estimated Sample sizes">![ComparisonVsPoll](./docs/plots/samples/ComparisonVsPoll.png)</a>
-
-Polling at margins < 4% needs prohibitively large sample sizes.
-Comparison audits are useful down to any margin, depending on N and the error rates.
-
-"In a card-level comparison audit, the estimated sample size scales with
-the reciprocal of the diluted margin." (STYLISH p.4) Polling scales as square of 1/margin.
 
 # Sampling
 
